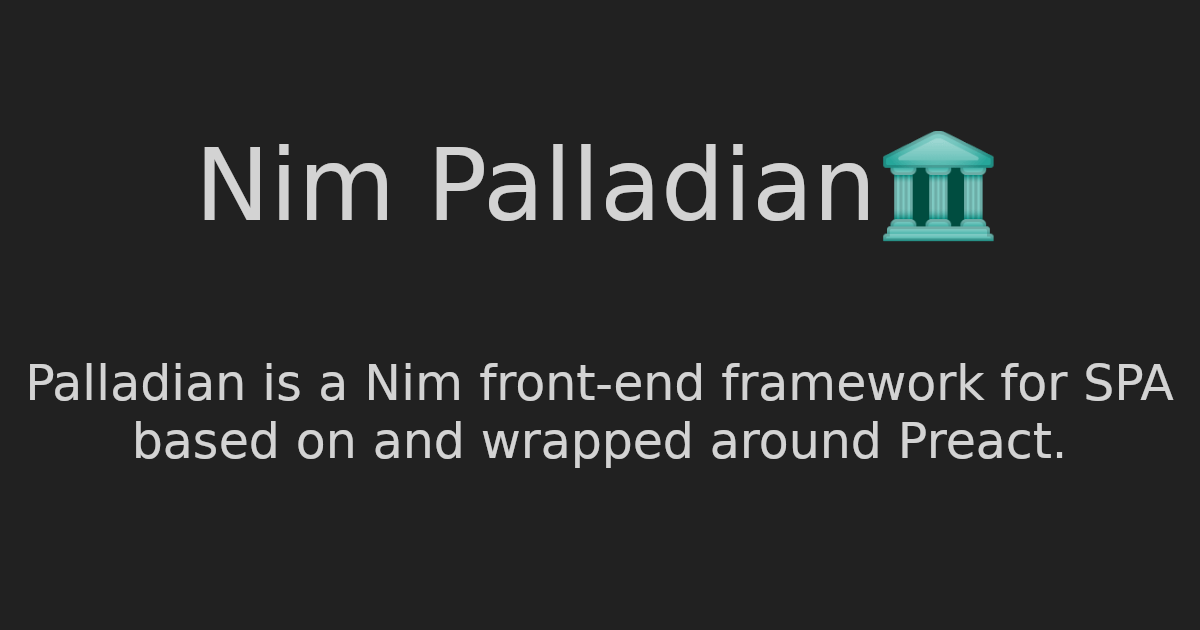
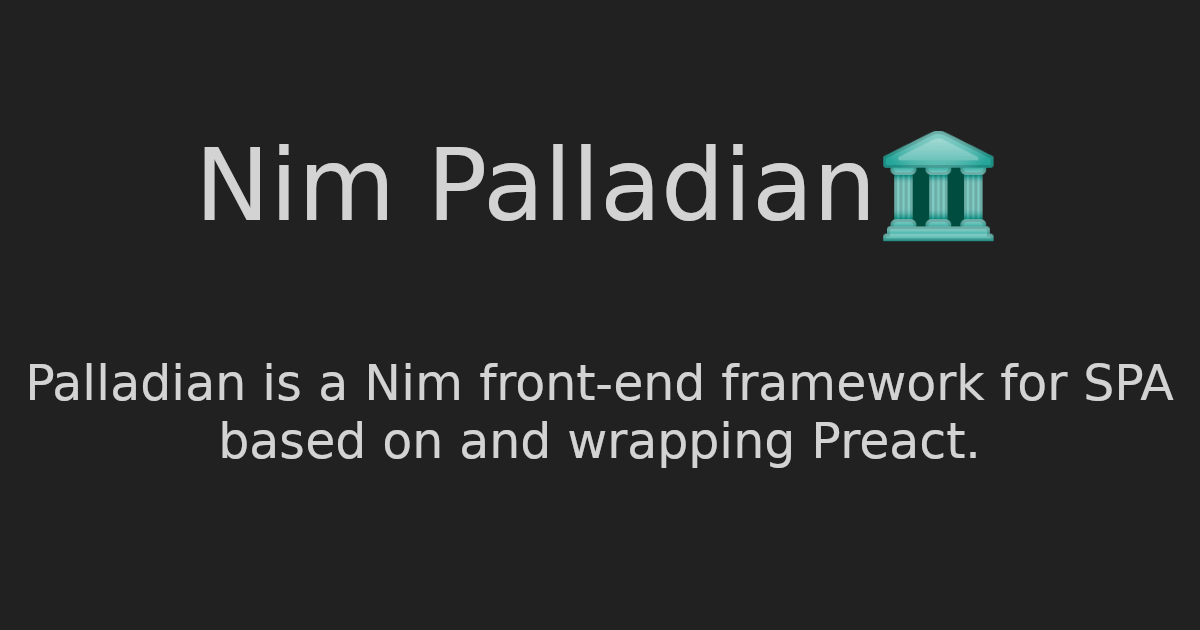
Ogp (#14)
* add ogp

* fix

* fix

Changed region(s): [[0.0925, 0.6635, 0.8942, 0.754]]

diff --git a/examples/document/index.html b/examples/document/index.html
@@ -6,14 +6,15 @@
   <meta name="viewport" content="width=device-width, initial-scale=1.0">
 
   <link rel="icon" href="{% BASE_URL %}/public/favicon.ico" />
-  <meta name="description" content="Palladian is a Nim front-end framework for SPA based on and wrapped around Preact." />
+  <meta name="description" content="Palladian is a Nim front-end framework for SPA based on and wrapping Preact." />
   <meta name="twitter:card" content="summary_large_image" />
   <meta name="twitter:site" content="@dumblepytech1" />
   <meta name="twitter:player" content="@dumblepytech1" />
+  <meta name="twitter:image" content="{% BASE_URL %}/public/ogp.png" />
   <meta property="og:url" content="https://itsumura-h.github.io/nim-palladian/" />
   <meta property="og:type" content="website" />
   <meta property="og:title" content="Nim Palladian" />
-  <meta property="og:description" content="Palladian is a Nim front-end framework for SPA based on and wrapped around Preact." />
+  <meta property="og:description" content="Palladian is a Nim front-end framework for SPA based on and wrapping Preact." />
   <meta property="og:image" content="{% BASE_URL %}/public/ogp.png" />
 
   <link href="{% BASE_URL %}/public/typography.css" rel="stylesheet" type="text/css" /> <!-- edited @tailwindcss/typography to delete 'color' -->
